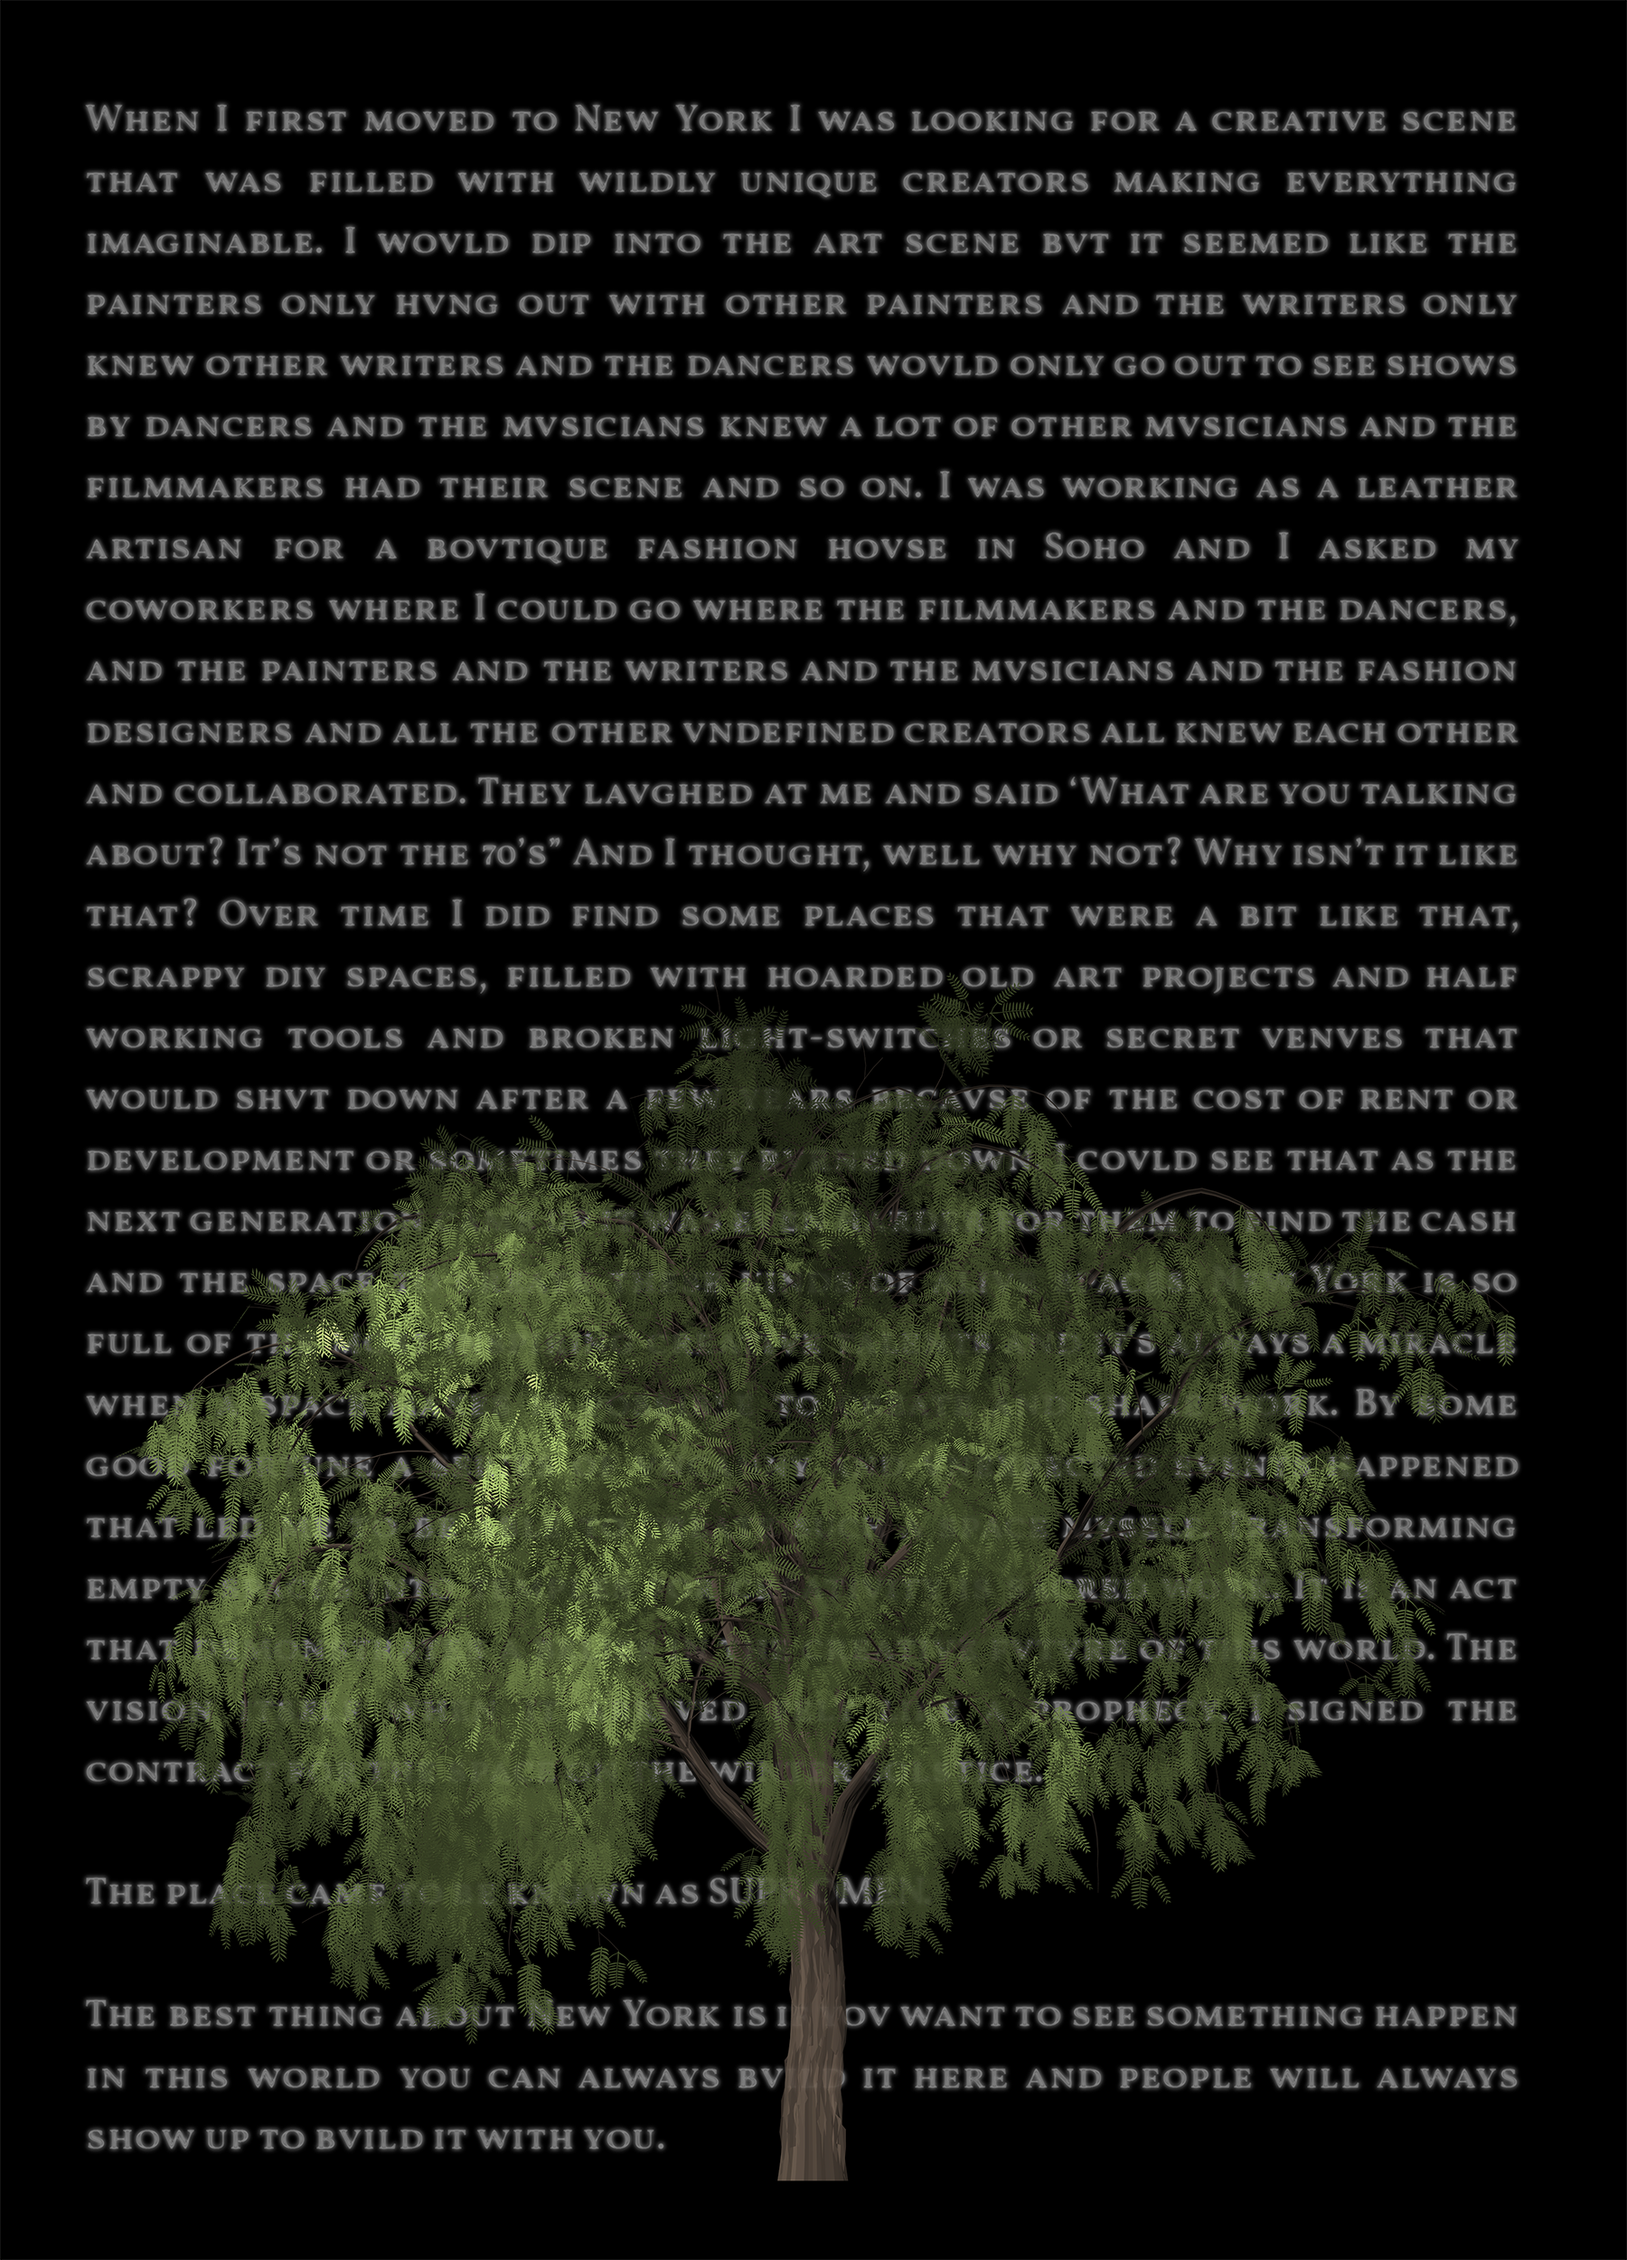
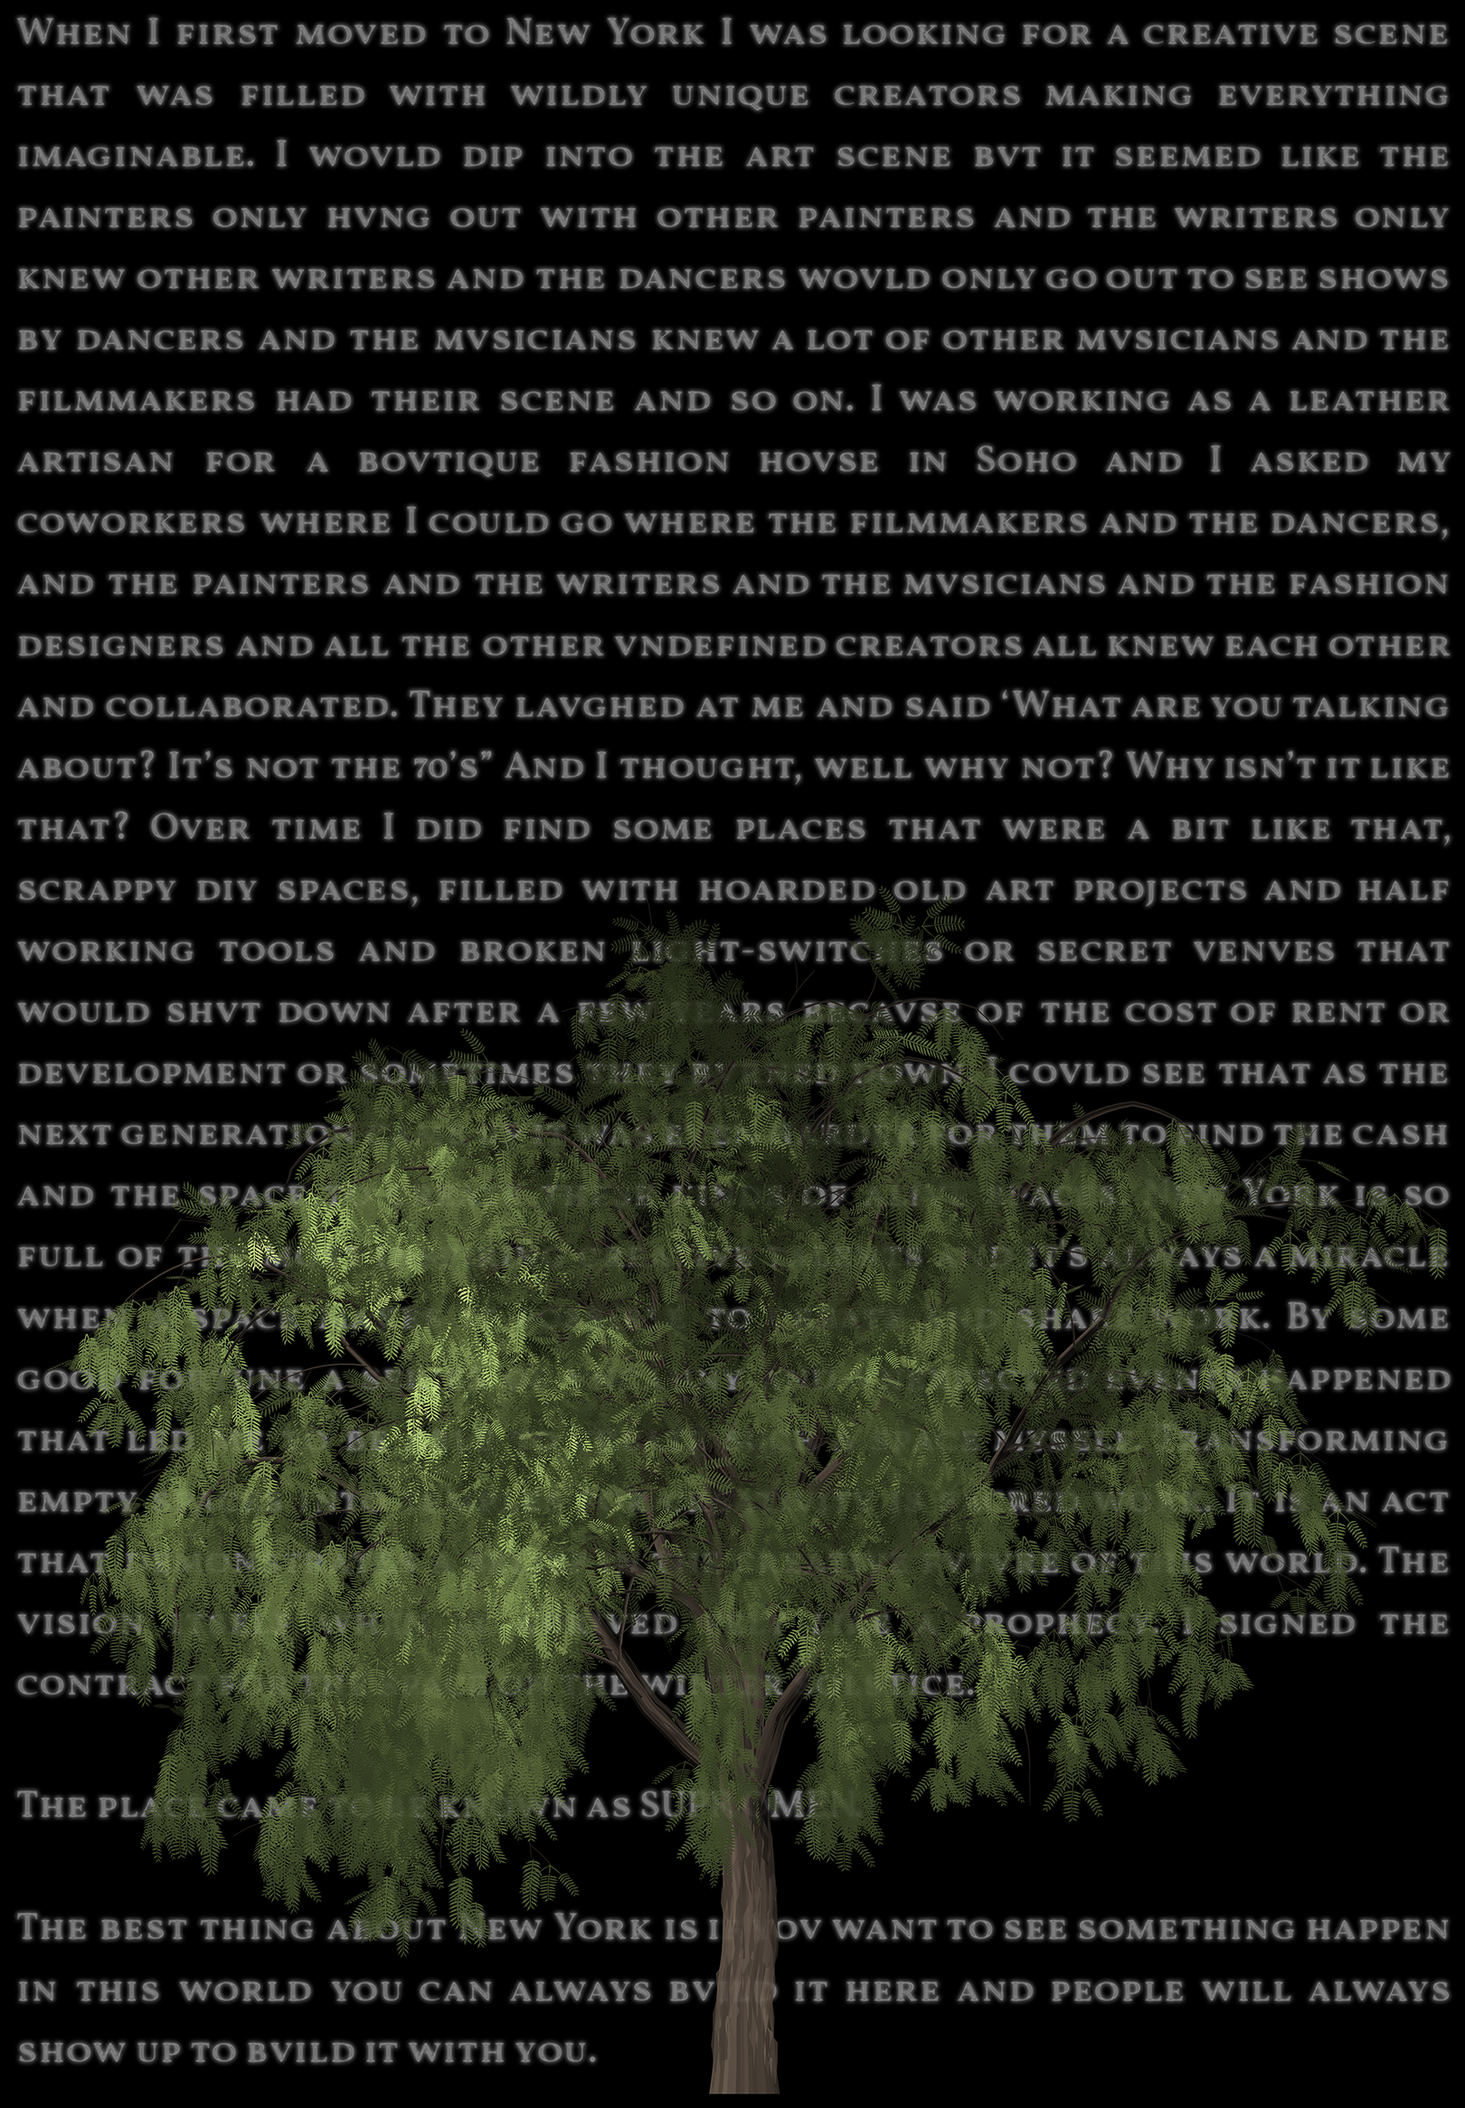
updates

diff --git a/docs/assets/css/custom.css b/docs/assets/css/custom.css
@@ -214,7 +214,7 @@ a:active {
   justify-content: center;
   align-items: flex-start; /* not true vertical center */
   min-height: 100vh;
-  padding-top: 10vh; /* pushes media down from top */
+  padding-top: 5vh; /* pushes media down from top */
   box-sizing: border-box;
 }
 
@@ -231,18 +231,9 @@ a:active {
    ========================= */
 
 .page--history .center-media img {
-  max-width: 1000px;
+  max-width: 1200px;
   width: 100%;
   height: auto;
-}
-
-
-/* =========================
-   History page image sizing
-   ========================= */
-
-.page--events .center-media {
-  padding-top: 15vh;
 }
 
 

diff --git a/docs/theme/static/css/custom.css b/docs/theme/static/css/custom.css
@@ -214,7 +214,7 @@ a:active {
   justify-content: center;
   align-items: flex-start; /* not true vertical center */
   min-height: 100vh;
-  padding-top: 10vh; /* pushes media down from top */
+  padding-top: 5vh; /* pushes media down from top */
   box-sizing: border-box;
 }
 
@@ -231,18 +231,9 @@ a:active {
    ========================= */
 
 .page--history .center-media img {
-  max-width: 1000px;
+  max-width: 1200px;
   width: 100%;
   height: auto;
-}
-
-
-/* =========================
-   History page image sizing
-   ========================= */
-
-.page--events .center-media {
-  padding-top: 15vh;
 }
 
 
